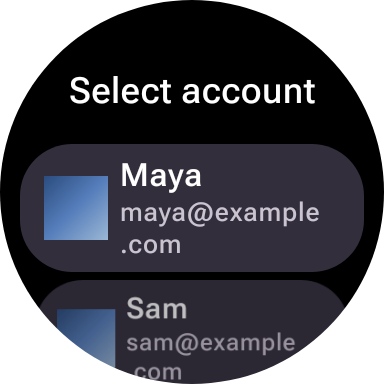
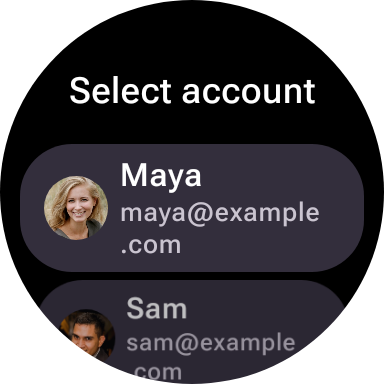
feat: seed the auth accounts with real CC0 photographs, masked at the call site (#436)

Changed region(s): [[0.0938, 0.4375, 0.2812, 0.625], [0.125, 0.7812, 0.3125, 0.9688]]

diff --git a/catalog/src/main/kotlin/ee/schimke/wearm3catalog/CatalogAvatar.kt b/catalog/src/main/kotlin/ee/schimke/wearm3catalog/CatalogAvatar.kt
@@ -1,0 +1,101 @@
+package ee.schimke.wearm3catalog
+
+import androidx.compose.runtime.Composable
+import androidx.compose.runtime.remember
+import androidx.compose.ui.geometry.Offset
+import androidx.compose.ui.geometry.Rect
+import androidx.compose.ui.geometry.Size
+import androidx.compose.ui.graphics.Path
+import androidx.compose.ui.graphics.drawscope.DrawScope
+import androidx.compose.ui.graphics.drawscope.clipPath
+import androidx.compose.ui.graphics.drawscope.translate
+import androidx.compose.ui.graphics.painter.Painter
+import androidx.compose.ui.res.painterResource
+import com.google.android.horologist.images.base.paintable.Paintable
+
+/**
+ * The account photographs the sign-in surfaces seed from.
+ *
+ * [CatalogArtwork] is the stand-in for *imagery*, and it is a gradient, which is honest for album
+ * art and for the kit's app glyph. It is not honest here: an account row's leading slot holds a
+ * FACE, and a reader looking at `Auth/SelectAccountScreen` has to be able to tell whether the
+ * component sized, placed and shaped one. A rectangle of colour answers the first two questions and
+ * not the third, and a drawn figure answers the third only approximately — at
+ * `ButtonDefaults.LargeIconSize` the question is whether a *photograph* survives the slot, which
+ * only a photograph can answer.
+ *
+ * ## Why these two, and what licence they carry
+ *
+ * Both are real photographs from [inter-faces](https://github.com/cjdowner/interfaces), a pack of
+ * 100 avatar crops assembled from community stock photography and released under
+ * [CC0 1.0](https://creativecommons.org/publicdomain/zero/1.0/) — free for commercial use,
+ * modifiable, redistributable, **attribution not required**. Credited anyway, because a contributor
+ * who finds two photographs of strangers in a design repository deserves to be told where they came
+ * from without having to ask: see
+ * [`docs/THIRD_PARTY_IMAGES.md`](../../../../../../../docs/THIRD_PARTY_IMAGES.md).
+ *
+ * This deliberately reverses the "drawn rather than shipped" reasoning on [CatalogImage], which
+ * argued that a committed photograph puts a licence question in front of every contributor. That
+ * argument holds for a *placeholder*, where a gradient loses nothing. It does not hold for the one
+ * slot whose whole subject is a human face — and a CC0 pack answers the licence question in the
+ * file that records it rather than leaving it open. The two are 256x256 JPEGs, ~45 KB each.
+ *
+ * They are chosen to be **distinguishable at 32dp**: a light, high-key frame against a dark,
+ * low-key one. Telling two accounts apart is the account row's entire job, and two portraits that
+ * resolve to the same grey blur at `LargeIconSize` would fail it while looking fine in review.
+ *
+ * ## The circular crop, and why it belongs here
+ *
+ * `SelectAccountScreen` draws the account's `avatar` through a bare `Image` with no `clip`, so an
+ * unmasked rectangle — which is exactly what a photograph is, and what a `CoilPaintable` hands it
+ * in production — lands SQUARE in the account row. That is a library gap, reported at
+ * [#435](https://github.com/yschimke/wear-m3-catalog/issues/435).
+ *
+ * What the API gives a caller is the PIXELS: `Paintable` returns any `Painter`, so the mask goes on
+ * here, before the component ever sees the image. That is not covering for the library — it is what
+ * every call site has to do today, and what Horologist's own fixtures do
+ * (`horologist_avatar_small_1` and `_2`, the two the `SelectAccountScreen` preview and screenshot
+ * test pass, are pre-rounded PNGs whose corners decode to `(0, 0, 0, 0)`; `_3`, used only by the
+ * confirmation dialog, is not, because that component clips to its own pill).
+ *
+ * It survives the fix, too: a circle clipped to a circle is unchanged the day #435 lands.
+ */
+object CatalogAvatar {
+
+  /** Maya's photograph — light frame, so it reads against a dark row. */
+  val First: Paintable = ResourceAvatar(R.drawable.catalog_avatar_1)
+
+  /** Sam's photograph — dark frame, so the two do not blur into one another at 32dp. */
+  val Second: Paintable = ResourceAvatar(R.drawable.catalog_avatar_2)
+
+  private class ResourceAvatar(private val resId: Int) : Paintable {
+    @Composable
+    override fun rememberPainter(): Painter {
+      val source = painterResource(resId)
+      return remember(source) { CircleCropPainter(source) }
+    }
+  }
+
+  /**
+   * Draws [source] into the largest centred circle the frame allows.
+   *
+   * Centred and square rather than stretched to the frame: `SignedInConfirmationDialog` scales its
+   * avatar with `ContentScale.FillBounds`, so a portrait laid out against a non-square frame would
+   * come out skewed — a face is the one subject where that is unmissable.
+   */
+  private class CircleCropPainter(private val source: Painter) : Painter() {
+
+    // Unspecified, so the component's own sizing wins. An intrinsic size here would fight
+    // `Modifier.size(LargeIconSize)` in the row and `fillMaxSize()` in the dialog.
+    override val intrinsicSize: Size = Size.Unspecified
+
+    override fun DrawScope.onDraw() {
+      val side = minOf(size.width, size.height)
+      val left = (size.width - side) / 2f
+      val top = (size.height - side) / 2f
+      clipPath(Path().apply { addOval(Rect(Offset(left, top), Size(side, side))) }) {
+        translate(left, top) { with(source) { draw(Size(side, side)) } }
+      }
+    }
+  }
+}

diff --git a/catalog/src/main/kotlin/ee/schimke/wearm3catalog/HorologistSamples.kt b/catalog/src/main/kotlin/ee/schimke/wearm3catalog/HorologistSamples.kt
@@ -60,11 +60,12 @@ object HorologistSamples {
     )
 
   /**
-   * The stand-in avatar, as the type Horologist takes.
+   * The accounts `SelectAccountScreen` lists. Example.com, which is reserved for exactly this.
    *
    * `AccountUiModel.avatar` is a [Paintable] for the same reason the artwork is: production passes
    * a `CoilPaintable` resolving the account's photo through an `ImageLoader`, which a catalog
-   * render must not do.
+   * render must not do. [CatalogAvatar] hands over the same SHAPE of thing — a real photograph,
+   * already masked — from a committed CC0 resource instead.
    *
    * **Left null it is not merely blank — it publishes a different code path.** Both auth surfaces
    * branch on it, and the `defaultAvatar` branch is the one for an account with no photo:
@@ -72,22 +73,24 @@ object HorologistSamples {
    * `ButtonDefaults.ContentPadding`, where an avatar draws an `Image` at `LargeIconSize` under
    * `ButtonWithLargeIconContentPadding` — a different row height, not just different ink.
    * `SignedInConfirmationDialog` centres a 32dp glyph in its 96dp pill, where an avatar fills the
-   * pill edge to edge at `ContentScale.FillBounds`. A catalog cell showing the fallback claims to
-   * draw the sign-in flow and draws its empty state.
+   * pill at `ContentScale.FillBounds`. A catalog cell showing the fallback claims to draw the
+   * sign-in flow and draws its empty state.
    *
-   * So the accounts carry one. [CatalogArtwork] is this repo's stand-in wherever the design fills a
-   * slot with real content rather than leaving it empty — the app avatar is the case its KDoc
-   * reasons from — and it is drawn rather than shipped for the licence reason stated there.
+   * Two different photographs, because telling two accounts apart is the row's entire job — and two
+   * that stay distinct at 32dp, not only at review size. See [CatalogAvatar].
    */
-  object Avatar : Paintable {
-    @Composable override fun rememberPainter(): Painter = CatalogArtwork
-  }
-
-  /** The accounts `SelectAccountScreen` lists. Example.com, which is reserved for exactly this. */
   val accounts: List<AccountUiModel> =
     listOf(
-      AccountUiModel(email = "maya@example.com", name = "Maya", avatar = Avatar),
-      AccountUiModel(email = "sam@example.com", name = "Sam", avatar = Avatar),
+      AccountUiModel(
+        email = "maya@example.com",
+        name = "Maya",
+        avatar = CatalogAvatar.First,
+      ),
+      AccountUiModel(
+        email = "sam@example.com",
+        name = "Sam",
+        avatar = CatalogAvatar.Second,
+      ),
     )
 
   /** The single account the signed-in confirmation greets. */

diff --git a/catalog/src/main/kotlin/ee/schimke/wearm3catalog/CatalogImage.kt b/catalog/src/main/kotlin/ee/schimke/wearm3catalog/CatalogImage.kt
@@ -47,13 +47,18 @@ import androidx.compose.ui.graphics.painter.Painter
  *
  * ## Why drawn rather than shipped
  *
- * A committed photograph would be the only asset in the repository and would put a licence question
- * in front of every contributor. This weighs nothing and renders identically on every publish,
- * which a catalog whose delivery branch is diffed over time needs.
+ * A committed photograph would put a licence question in front of every contributor. This weighs
+ * nothing and renders identically on every publish, which a catalog whose delivery branch is diffed
+ * over time needs.
+ *
+ * That reasoning holds wherever the picture is a PLACEHOLDER, which is everything on this page. The
+ * one slot it does not cover is a human face — see [CatalogAvatar], which ships two CC0 photographs
+ * and records their licence in `docs/THIRD_PARTY_IMAGES.md`.
  *
  * **Use this only where the kit's cell is itself empty.** Where the kit draws real content — the
- * app avatar, media artwork — [CatalogArtwork] is the stand-in. Drawing a placeholder over a slot
- * the kit fills does not move the comparison closer; it disagrees differently.
+ * app avatar, media artwork — [CatalogArtwork] is the stand-in, and where the content is a PERSON —
+ * an account's avatar — [CatalogAvatar] is. Drawing a placeholder over a slot the kit fills does
+ * not move the comparison closer; it disagrees differently.
  *
  * It is sample *data*, not a substitute for the component: the sticker still calls the real
  * `Button` / `Card` overload that takes a `Painter`.
@@ -106,6 +111,9 @@ object CatalogImageWithFlatScrim : Painter() {
  * It is not a match for the kit's icon, and is not claimed as one — it is a stand-in that reads as
  * imagery. Closing that gap means drawing the avatar the kit actually draws, which is a separate
  * question from what an empty slot should hold.
+ *
+ * **It is imagery, not a person.** A gradient reads as album art and as an app glyph; it does not
+ * read as a face, and an account row's leading slot holds one. That slot takes [CatalogAvatar].
  */
 object CatalogArtwork : Painter() {
   override val intrinsicSize: Size = Size.Unspecified

diff --git a/catalog/src/main/kotlin/ee/schimke/wearm3catalog/sections/Auth.kt b/catalog/src/main/kotlin/ee/schimke/wearm3catalog/sections/Auth.kt
@@ -82,15 +82,15 @@ fun AuthGuestModeButton(enabled: Boolean = true) = Sticker {
   )
 }
 
-// The avatar comes out SQUARE here and that is the component, not the seed:
-// `SelectAccountScreen` draws the account's `avatar` through a bare `Image` at
-// `ButtonDefaults.LargeIconSize` with no `clip`, where Wear's sign-in guidance — and the
-// confirmation dialog one screen later, which clips to its pill — draws it round. Every photo a
-// real app hands it lands square too. Published as it draws rather than rounded off in the seed:
-// a stand-in shaped to hide a library defect reports a component this repository cannot test
-// (AGENTS.md, "a cell whose API exists is drawn even when the library draws it wrong"). Upstream's
-// own screenshots miss it because its fixtures are pre-rounded PNGs; filed as
-// https://github.com/yschimke/wear-m3-catalog/issues/435, and this comment retires with it.
+// The avatar arrives here ALREADY MASKED, and that is the call site doing its job rather than the
+// component doing it. `SelectAccountScreen` draws the account's `avatar` through a bare `Image` at
+// `ButtonDefaults.LargeIconSize` with no `clip`, so an unmasked rectangle — which is what a
+// `CoilPaintable` over a real photo hands it — lands square. What the API gives a caller is the
+// PIXELS: `Paintable` returns any `Painter`, so `CatalogAvatar` clips itself to a circle before
+// the component ever sees it, exactly as Horologist's own pre-rounded PNG fixtures do. The
+// library's missing clip is reported at
+// https://github.com/yschimke/wear-m3-catalog/issues/435 rather than drawn, since publishing a
+// square here would report the seed's shape as the component's.
 @CatalogComponent(
   id = "Auth/SelectAccountScreen",
   noReference =

diff --git a/docs/THIRD_PARTY_IMAGES.md b/docs/THIRD_PARTY_IMAGES.md
@@ -1,0 +1,44 @@
+# Third-party images
+
+Everything this catalog draws is generated in code — see
+[`CatalogImage.kt`](../catalog/src/main/kotlin/ee/schimke/wearm3catalog/CatalogImage.kt) for why —
+with one deliberate exception, recorded here.
+
+## Account avatars
+
+| File | Source | Original |
+| --- | --- | --- |
+| [`catalog/src/main/res/drawable-nodpi/catalog_avatar_1.jpg`](../catalog/src/main/res/drawable-nodpi/catalog_avatar_1.jpg) | [cjdowner/interfaces](https://github.com/cjdowner/interfaces) `256 x 256/009.jpg` | [pexels.com/photo/38554](https://www.pexels.com/photo/woman-in-black-scoop-neck-shirt-smiling-38554/) |
+| [`catalog/src/main/res/drawable-nodpi/catalog_avatar_2.jpg`](../catalog/src/main/res/drawable-nodpi/catalog_avatar_2.jpg) | [cjdowner/interfaces](https://github.com/cjdowner/interfaces) `256 x 256/014.jpg` | [pexels.com/photo/50855](https://www.pexels.com/photo/person-man-confident-business-50855/) |
+
+**Licence: [CC0 1.0 Universal](https://creativecommons.org/publicdomain/zero/1.0/)** (public domain
+dedication). The pack states it plainly: free for personal and commercial use, modifiable, copyable,
+redistributable, and **attribution is not required**. It is given anyway — a contributor who finds
+photographs of strangers in a design repository should be able to see where they came from without
+having to ask.
+
+The one condition CC0 does not lift is the one the pack names: identifiable people must not be shown
+in a bad light, or in a way they would find offensive. These are seed data for a sign-in screen —
+`Maya` and `Sam` at `example.com` — which is as neutral a use as the pack has.
+
+Both were copied unmodified from the pack's `256 x 256` set (~45 KB each). They are cropped to a
+circle at draw time rather than in the file, by
+[`CatalogAvatar`](../catalog/src/main/kotlin/ee/schimke/wearm3catalog/CatalogAvatar.kt) — see its
+KDoc, and [#435](https://github.com/yschimke/wear-m3-catalog/issues/435), for why the mask belongs at
+the call site.
+
+## Why this is the only exception
+
+[`CatalogImage`](../catalog/src/main/kotlin/ee/schimke/wearm3catalog/CatalogImage.kt)'s KDoc argues
+for drawing rather than shipping: a committed photograph puts a licence question in front of every
+contributor, and a drawn fill weighs nothing and renders identically on every publish, which a
+catalog whose delivery branch is diffed nightly needs.
+
+That argument holds wherever the picture is a *placeholder* — an empty kit cell, album art, an app
+glyph — because a gradient loses nothing there. It does not hold for the one slot whose subject is a
+human face. At `ButtonDefaults.LargeIconSize` the question a reader is asking is whether a
+**photograph** survives the slot, and only a photograph answers it. A CC0 pack settles the licence
+question in this file rather than leaving it open, which is the cost the original argument was
+avoiding.
+
+Adding another image asset means adding a row here, with its licence.
